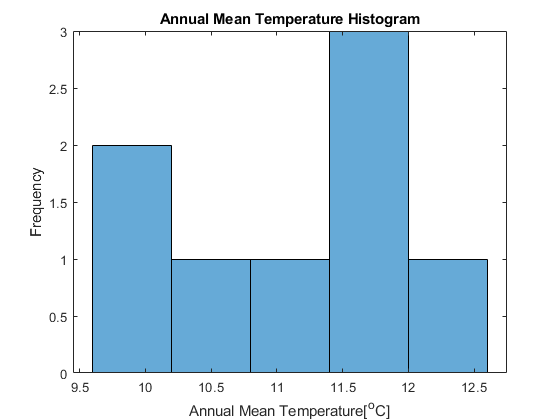
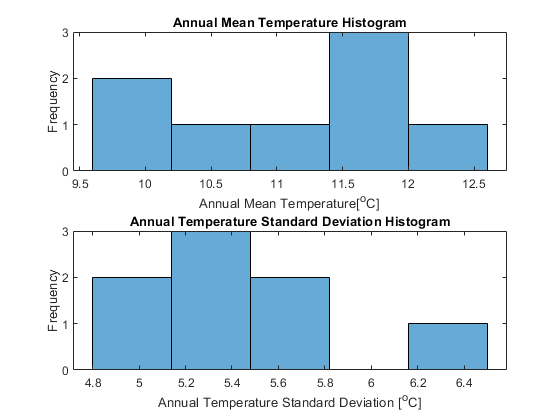
Add A2

diff --git a/A1/q4/html/q4_1.html b/A1/q4/html/q4_1.html
@@ -6,7 +6,7 @@
    <!--
 This HTML was auto-generated from MATLAB code.
 To make changes, update the MATLAB code and republish this document.
-      --><title>q4_1</title><meta name="generator" content="MATLAB 9.7"><link rel="schema.DC" href="http://purl.org/dc/elements/1.1/"><meta name="DC.date" content="2019-09-17"><meta name="DC.source" content="q4_1.m"><style type="text/css">
+      --><title>q4_1</title><meta name="generator" content="MATLAB 9.7"><link rel="schema.DC" href="http://purl.org/dc/elements/1.1/"><meta name="DC.date" content="2019-09-19"><meta name="DC.source" content="q4_1.m"><style type="text/css">
 html,body,div,span,applet,object,iframe,h1,h2,h3,h4,h5,h6,p,blockquote,pre,a,abbr,acronym,address,big,cite,code,del,dfn,em,font,img,ins,kbd,q,s,samp,small,strike,strong,sub,sup,tt,var,b,u,i,center,dl,dt,dd,ol,ul,li,fieldset,form,label,legend,table,caption,tbody,tfoot,thead,tr,th,td{margin:0;padding:0;border:0;outline:0;font-size:100%;vertical-align:baseline;background:transparent}body{line-height:1}ol,ul{list-style:none}blockquote,q{quotes:none}blockquote:before,blockquote:after,q:before,q:after{content:'';content:none}:focus{outine:0}ins{text-decoration:none}del{text-decoration:line-through}table{border-collapse:collapse;border-spacing:0}
 
 html { min-height:100%; margin-bottom:1px; }
@@ -192,18 +192,20 @@ figure(1)
 <span class="keyword">end</span>
 
 figure(2)
+ subplot(2,1,1)
  histogram(means, 5);
  xlabel(<span class="string">'Annual Mean Temperature[^oC]'</span>)
  ylabel(<span class="string">'Frequency'</span>)
  title(<span class="string">"Annual Mean Temperature Histogram"</span>)
-figure(3)
+figure(2)
+subplot(2,1,2)
  histogram(stds, 5);
   xlabel(<span class="string">'Annual Temperature Standard Deviation [^oC]'</span>)
  ylabel(<span class="string">'Frequency'</span>)
  title(<span class="string">"Annual Temperature Standard Deviation Histogram"</span>)
 </pre><pre class="codeoutput">Minutely mean and std: 11.2953 5.609
 Hourly mean and std: 11.0954 5.4765
-</pre><img vspace="5" hspace="5" src="q4_1_01.png" alt=""> <img vspace="5" hspace="5" src="q4_1_02.png" alt=""> <img vspace="5" hspace="5" src="q4_1_03.png" alt=""> <p class="footer"><br><a href="https://www.mathworks.com/products/matlab/">Published with MATLAB&reg; R2019b</a><br></p></div><!--
+</pre><img vspace="5" hspace="5" src="q4_1_01.png" alt=""> <img vspace="5" hspace="5" src="q4_1_02.png" alt=""> <p class="footer"><br><a href="https://www.mathworks.com/products/matlab/">Published with MATLAB&reg; R2019b</a><br></p></div><!--
 ##### SOURCE BEGIN #####
 close all;
 clear;
@@ -331,31 +333,17 @@ for iYear = 2010:2017
 end
 
 figure(2)
+ subplot(2,1,1)
  histogram(means, 5);
  xlabel('Annual Mean Temperature[^oC]')
  ylabel('Frequency')
  title("Annual Mean Temperature Histogram")
-figure(3)
+figure(2)
+subplot(2,1,2)
  histogram(stds, 5);
   xlabel('Annual Temperature Standard Deviation [^oC]')
  ylabel('Frequency')
  title("Annual Temperature Standard Deviation Histogram")
- 
- 
- 
- 
- 
- 
- 
- 
- 
- 
- 
- 
- 
- 
- 
- 
  
 ##### SOURCE END #####
 --></body></html>

diff --git a/A1/q4/q4_1.m b/A1/q4/q4_1.m
@@ -124,29 +124,15 @@ for iYear = 2010:2017
 end
 
 figure(2)
+ subplot(2,1,1)
  histogram(means, 5);
  xlabel('Annual Mean Temperature[^oC]')
  ylabel('Frequency')
  title("Annual Mean Temperature Histogram")
-figure(3)
+figure(2)
+subplot(2,1,2)
  histogram(stds, 5);
   xlabel('Annual Temperature Standard Deviation [^oC]')
  ylabel('Frequency')
  title("Annual Temperature Standard Deviation Histogram")
- 
- 
- 
- 
- 
- 
- 
- 
- 
- 
- 
- 
- 
- 
- 
- 
  

diff --git a/A1/q3/q3.m b/A1/q3/q3.m
@@ -12,7 +12,12 @@ for iloop = 1:loops
     pdf = pdf / sqrt(i);
     
     subplot(loops, 1, iloop); 
-    histogram(pdf, 100, 'EdgeColor','none'); 
+    histogram(pdf, 100, 'EdgeColor', 'none', 'normalization', 'pdf'); 
+    x = (min(pdf) : 0.1 : max(pdf));
+    y = normpdf(x, nanmean(pdf), nanstd(pdf));
+    hold on;
+    plot(x,y)
+    hold off;
     title(iloop + " Distribution(s) / sqrt(" + i + ")"); 
     xlabel("X"); 
     ylabel("Frequency");
